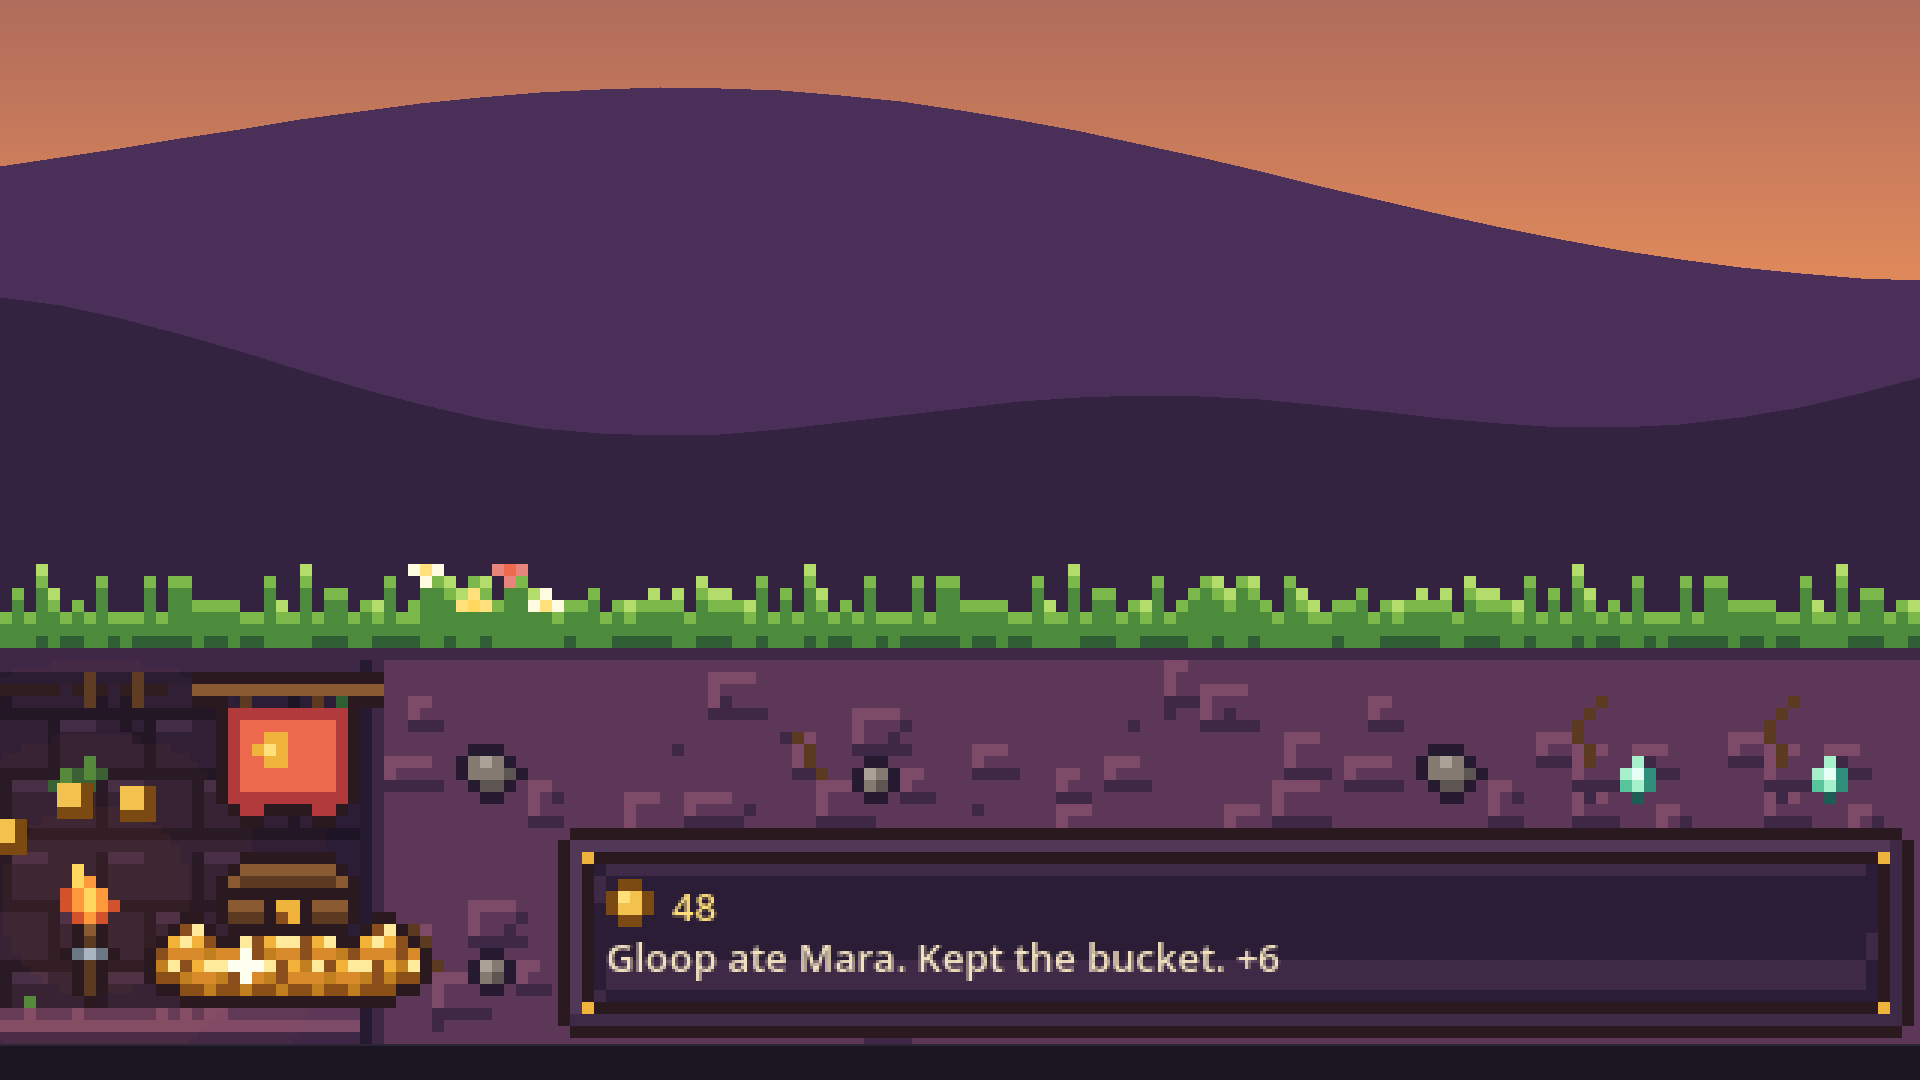
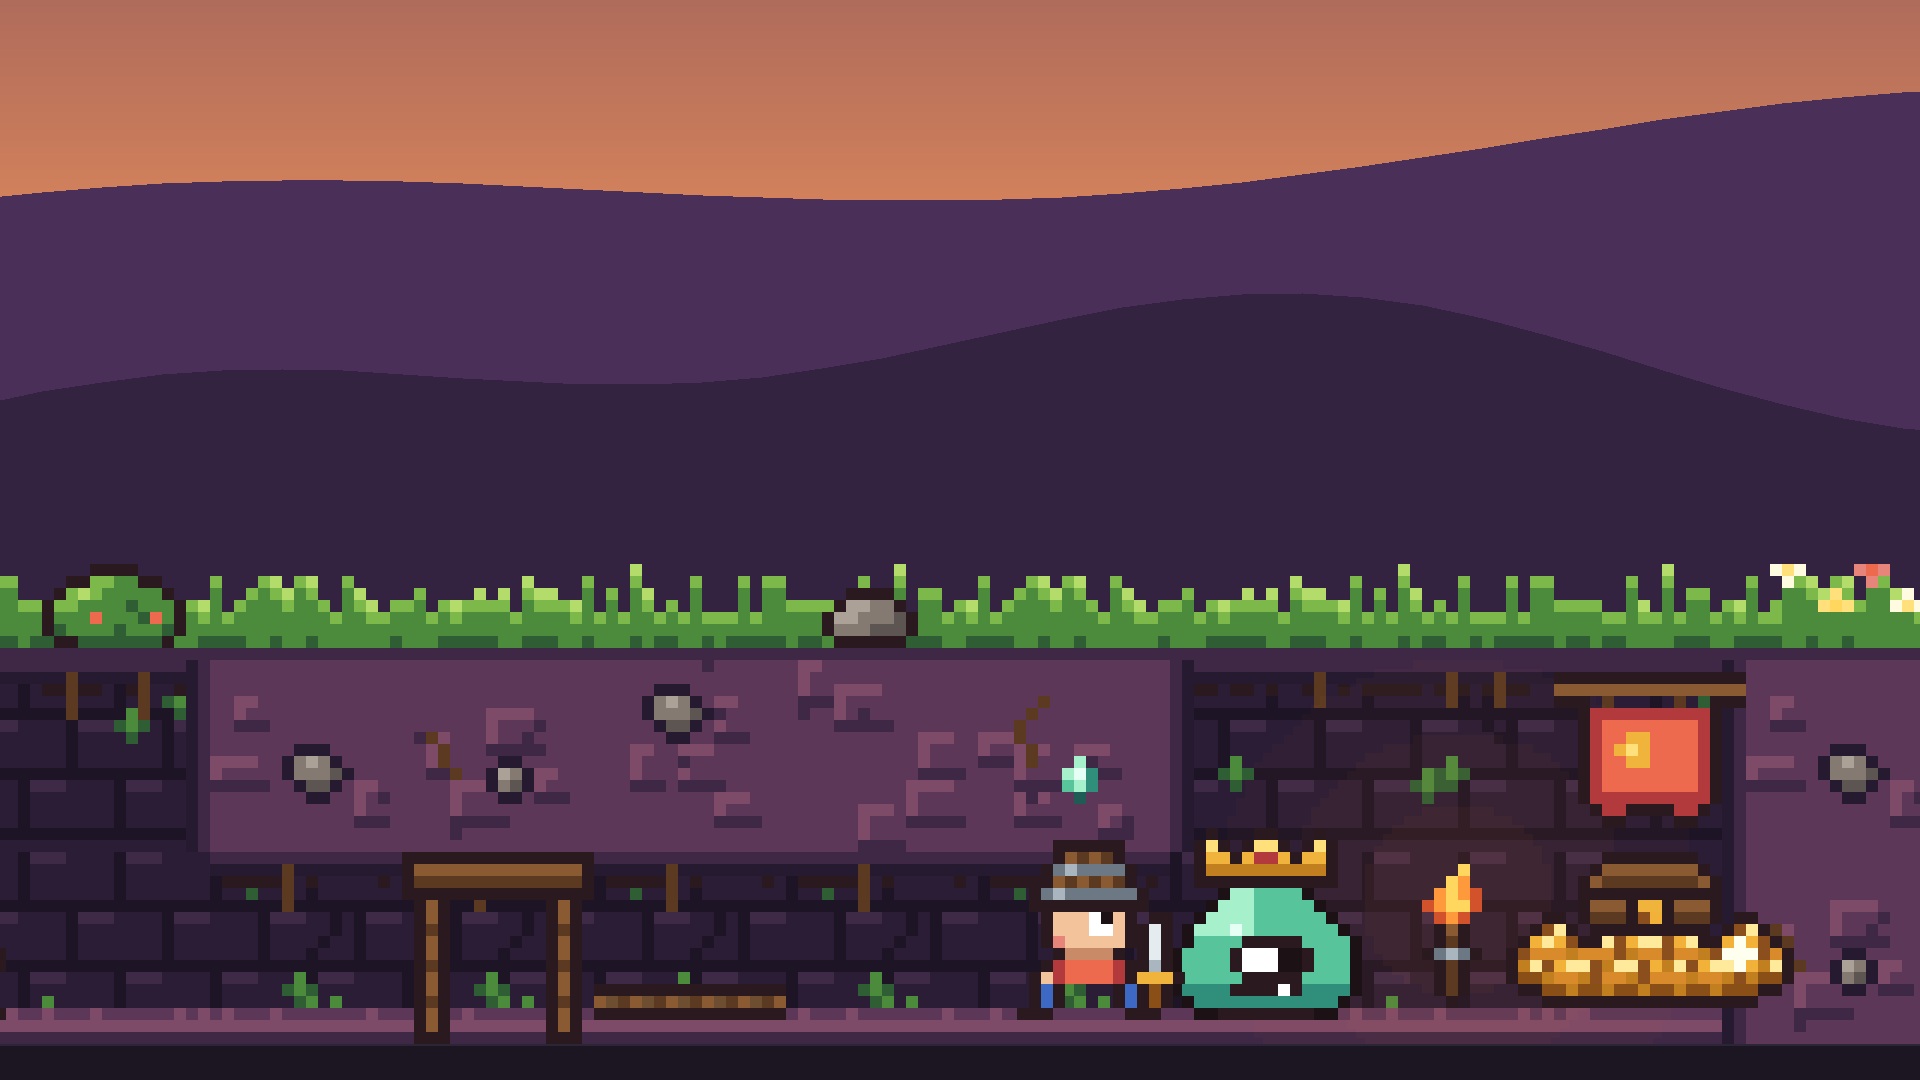
Mila: Steam scherm 5 opnieuw (held met emmer voor Gloop, kan-punt Daan keuring 9)
Claude-Session: https://claude.ai/code/session_01RMWUyjuctkw14A5HNMBchz

diff --git a/ontwerp/steam/winkelpagina/plan.md b/ontwerp/steam/winkelpagina/plan.md
@@ -145,3 +145,8 @@ Zelfde opnames als versie 9 (main 166acf3, runs 42844480669, 42844486856, 428445
 - **Moet 2, scherm 2 zonder namaak.** Geen venster en geen taakbalk meer: alleen de avondlucht en de strook op de onderrand, zoals bij een verborgen taakbalk (Rusty's doet hetzelfde). Het echte bureaublad van de runner (`bureaublad-echt.png`) kan niet: daar staan Windows-achtergrond, merkiconen en een logvenster op.
 - **Eerlijk:** de lucht en heuvels bovenin zijn het bureaublad uit het opnamescript, niet de strook zelf. Het spel ligt in het echt over je eigen bureaublad; alles in de strook is de echte opname.
 - Kan scherm 3: het randje bij x ±1910 was de linkerrand van het paneel; snede 5 spelpixels naar links (`zoom ... 1146 3`, zelfde beeld 630), nu weg (GEZIEN). "Wrok leest klein als Gloop is dood" nog open: een beeld met wolkje en held dichter bij de put zoek ik in de volgende run.
+
+## Versie 11 (Mila, 11 nov run 38): scherm 5 opnieuw (kan-punt keuring 9 van Daan)
+- **Scherm 5 is nu de ontmoeting, niet het paneel.** Zelfde opname (demo op 160, run 42844480669, `winkel-1920-demo-160`), beeld 790 = 52,7 s, `maak_schermen2.py zoom ... 1146 3`. Mara met emmer op haar hoofd en zwaard staat voor Royal Gloop met kroon; twee beelden later draagt Gloop de emmer. Waarom: Daan vond 4 en 5 leeg (alleen schat en paneel, geen held, geen Gloop). Wie scherm 1 (hoedentoren) heeft gezien, snapt wat er met die emmer gaat gebeuren; de grap zit nu in het beeld in plaats van in een regel.
+- Afgewezen: Gloop en het hele paneel samen (paneel ±445 spelpixels, Gloop staat op x ±1220: dat is ±700 breed, past niet op 3x; op 2x worden de figuren spikkels, GEZIEN in `/tmp`-proef op 600 breed); beeld 795 en 800 (held staat over Gloops gezicht, leest als een vlek).
+- Eerlijk: scherm 3 en 5 hebben nu dezelfde uitsnede (tafel links, schat rechts); in een rij zie je dat. Scherm 4 (kaartje) blijft zoals het was. Vergelijking oud en nieuw op 600 breed: `vergelijk-scherm5-oud-nieuw.png`. GEZIEN met Read.
